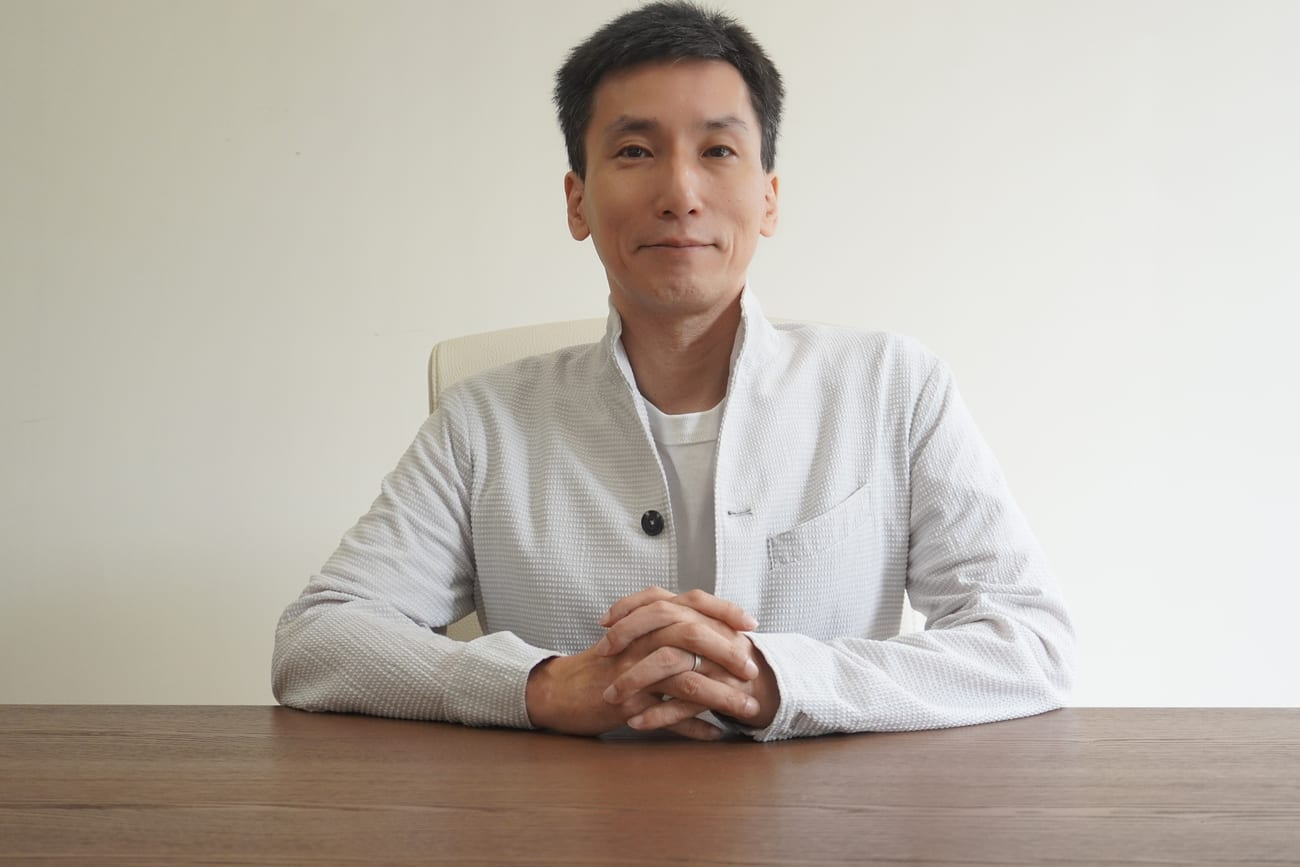
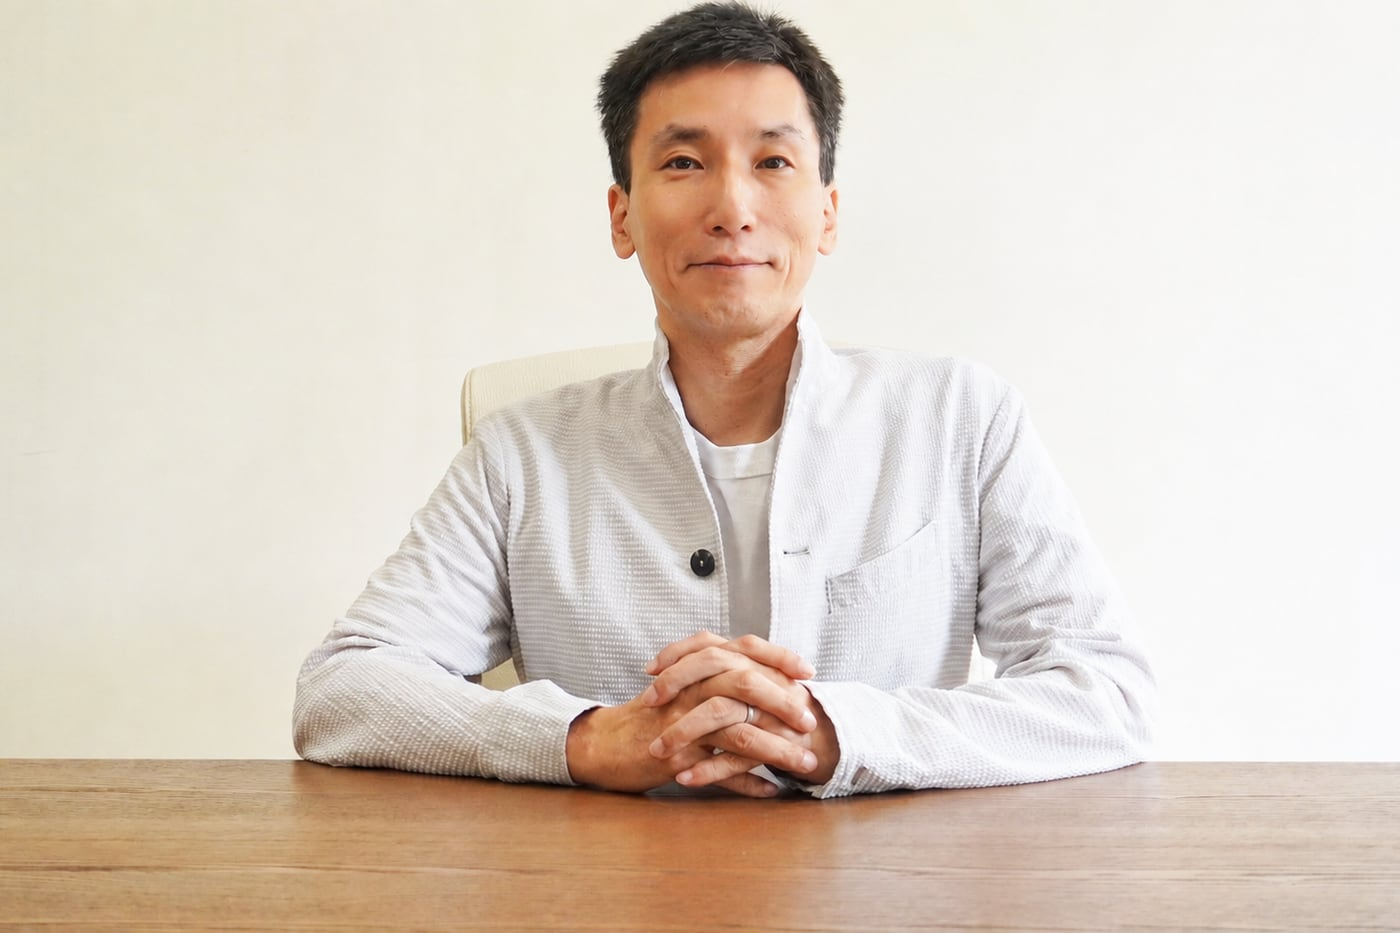
代表メッセージを高級感のあるレイアウトに刷新（レスポンシブ最適化）
- 代表写真を明るさ補正版に差し替え、3:2でトリミング。列を等寄り(0.92/1fr)＋max1400＋左右padding圧縮で一回り大きく・余白減
- 見出し「挑戦し続け、/新たな価値を創造する。」を各行nowrap化し、全デバイス(320〜1920)で必ず2行に
- 本文をPC/タブレットで約6行に収まる横幅・行間へ（右余白を活用）
- 署名：代表取締役を太字(600)＋字間広げ、月坂 浄を大きめ明朝で右寄せ階層化。写真枠は角丸＋洗練した影に

diff --git a/style.css b/style.css
@@ -2237,3 +2237,56 @@ body { font-weight: 500 !important; }
     justify-content: center;
 }
 
+/* ============================================================
+   代表メッセージ：リデザイン（高級感・信頼感・レスポンシブ最適化）
+   ※ 既存の分散ルールを最終ブロックとして上書き
+   ============================================================ */
+.message-inner {
+    grid-template-columns: 0.92fr 1fr !important;
+    gap: clamp(2rem, 3vw, 3.5rem) !important;
+    align-items: center !important;
+    max-width: 1400px !important;
+}
+/* 代表メッセージは右側の余白を活かして横幅を確保（本文を約6行に） */
+.message { padding-left: clamp(1.5rem, 4.5vw, 4.5rem) !important; padding-right: clamp(1.5rem, 4.5vw, 4.5rem) !important; }
+/* 写真：一回り大きく・余白を減らして存在感／枠は洗練 */
+.ceo-photo {
+    border: none !important;
+    border-radius: 6px !important;
+    box-shadow: 0 34px 74px -20px rgba(0,0,0,0.62) !important;
+}
+/* 見出し：全デバイスで必ず2行（各行nowrap＋収まるサイズ） */
+.message-catch {
+    font-size: clamp(1.5rem, 5.2vw, 2.9rem) !important;
+    line-height: 1.5 !important;
+    letter-spacing: 0.02em !important;
+    margin-bottom: clamp(1.5rem, 3vw, 2.2rem) !important;
+}
+.message-catch span { display: block; white-space: nowrap; }
+/* 本文：PC/タブレットで約6行に収まる幅・行間で読みやすく */
+.message-body { max-width: 700px; }
+.message-text { font-size: 1.02rem !important; line-height: 2.05 !important; color: #C8CCD6 !important; margin-bottom: 1.3rem !important; }
+/* 署名：代表取締役を少し太く、名前との配置を洗練（右寄せ・階層感） */
+.message-sign {
+    margin-top: clamp(2.4rem, 4vw, 3.2rem) !important;
+    flex-direction: column !important;
+    align-items: flex-end !important;
+    gap: 0.5rem !important;
+}
+.message-sign .sign-name { display: flex !important; flex-direction: column !important; align-items: flex-end !important; gap: 0.45rem !important; }
+.message-sign span { font-size: 0.8rem !important; font-weight: 600 !important; letter-spacing: 0.24em !important; color: #AEB4C4 !important; }
+.message-sign strong { font-family: var(--mincho) !important; font-size: clamp(1.6rem, 2.3vw, 1.95rem) !important; font-weight: 700 !important; letter-spacing: 0.14em !important; color: #FFFFFF !important; line-height: 1.1 !important; }
+
+/* タブレット以下：1カラム・写真を全幅で大きく・署名は左寄せ */
+@media (max-width: 900px) {
+    .message-inner { grid-template-columns: 1fr !important; gap: clamp(2rem, 6vw, 2.8rem) !important; max-width: 720px !important; }
+    .message-photo { max-width: none !important; width: 100% !important; }
+    .message-body { max-width: none; }
+    .message-sign { align-items: flex-start !important; }
+    .message-sign .sign-name { align-items: flex-start !important; }
+}
+/* 極小端末でも見出しが2行に収まるよう保険 */
+@media (max-width: 359px) {
+    .message-catch { font-size: 1.32rem !important; }
+}
+

diff --git a/index.html b/index.html
@@ -295,7 +295,7 @@
             <div class="ceo-photo"><img src="images/ceo.jpg" alt="代表取締役 月坂 浄"></div>
         </div>
         <div class="message-body" data-reveal>
-            <h3 class="message-catch">挑戦し続け、<br>新たな価値を創造する。</h3>
+            <h3 class="message-catch"><span>挑戦し続け、</span><span>新たな価値を創造する。</span></h3>
             <p class="message-text">私たち株式会社SAIは、常に新しい価値を追求し、お客様に感動を届けるサービスを提供することで、社会に貢献することを使命としています。これまで数々の挑戦に取り組み、着実に成長を遂げてまいりました。</p>
             <p class="message-text">この成長は、私たちが掲げる「挑戦」と「革新」の精神によって支えられてきたものだと確信しています。今後も変化の激しい時代の中で、その一歩先を見据え、お客様の期待を超える価値を創出し続ける企業でありたいと考えています。</p>
             <div class="message-sign">
